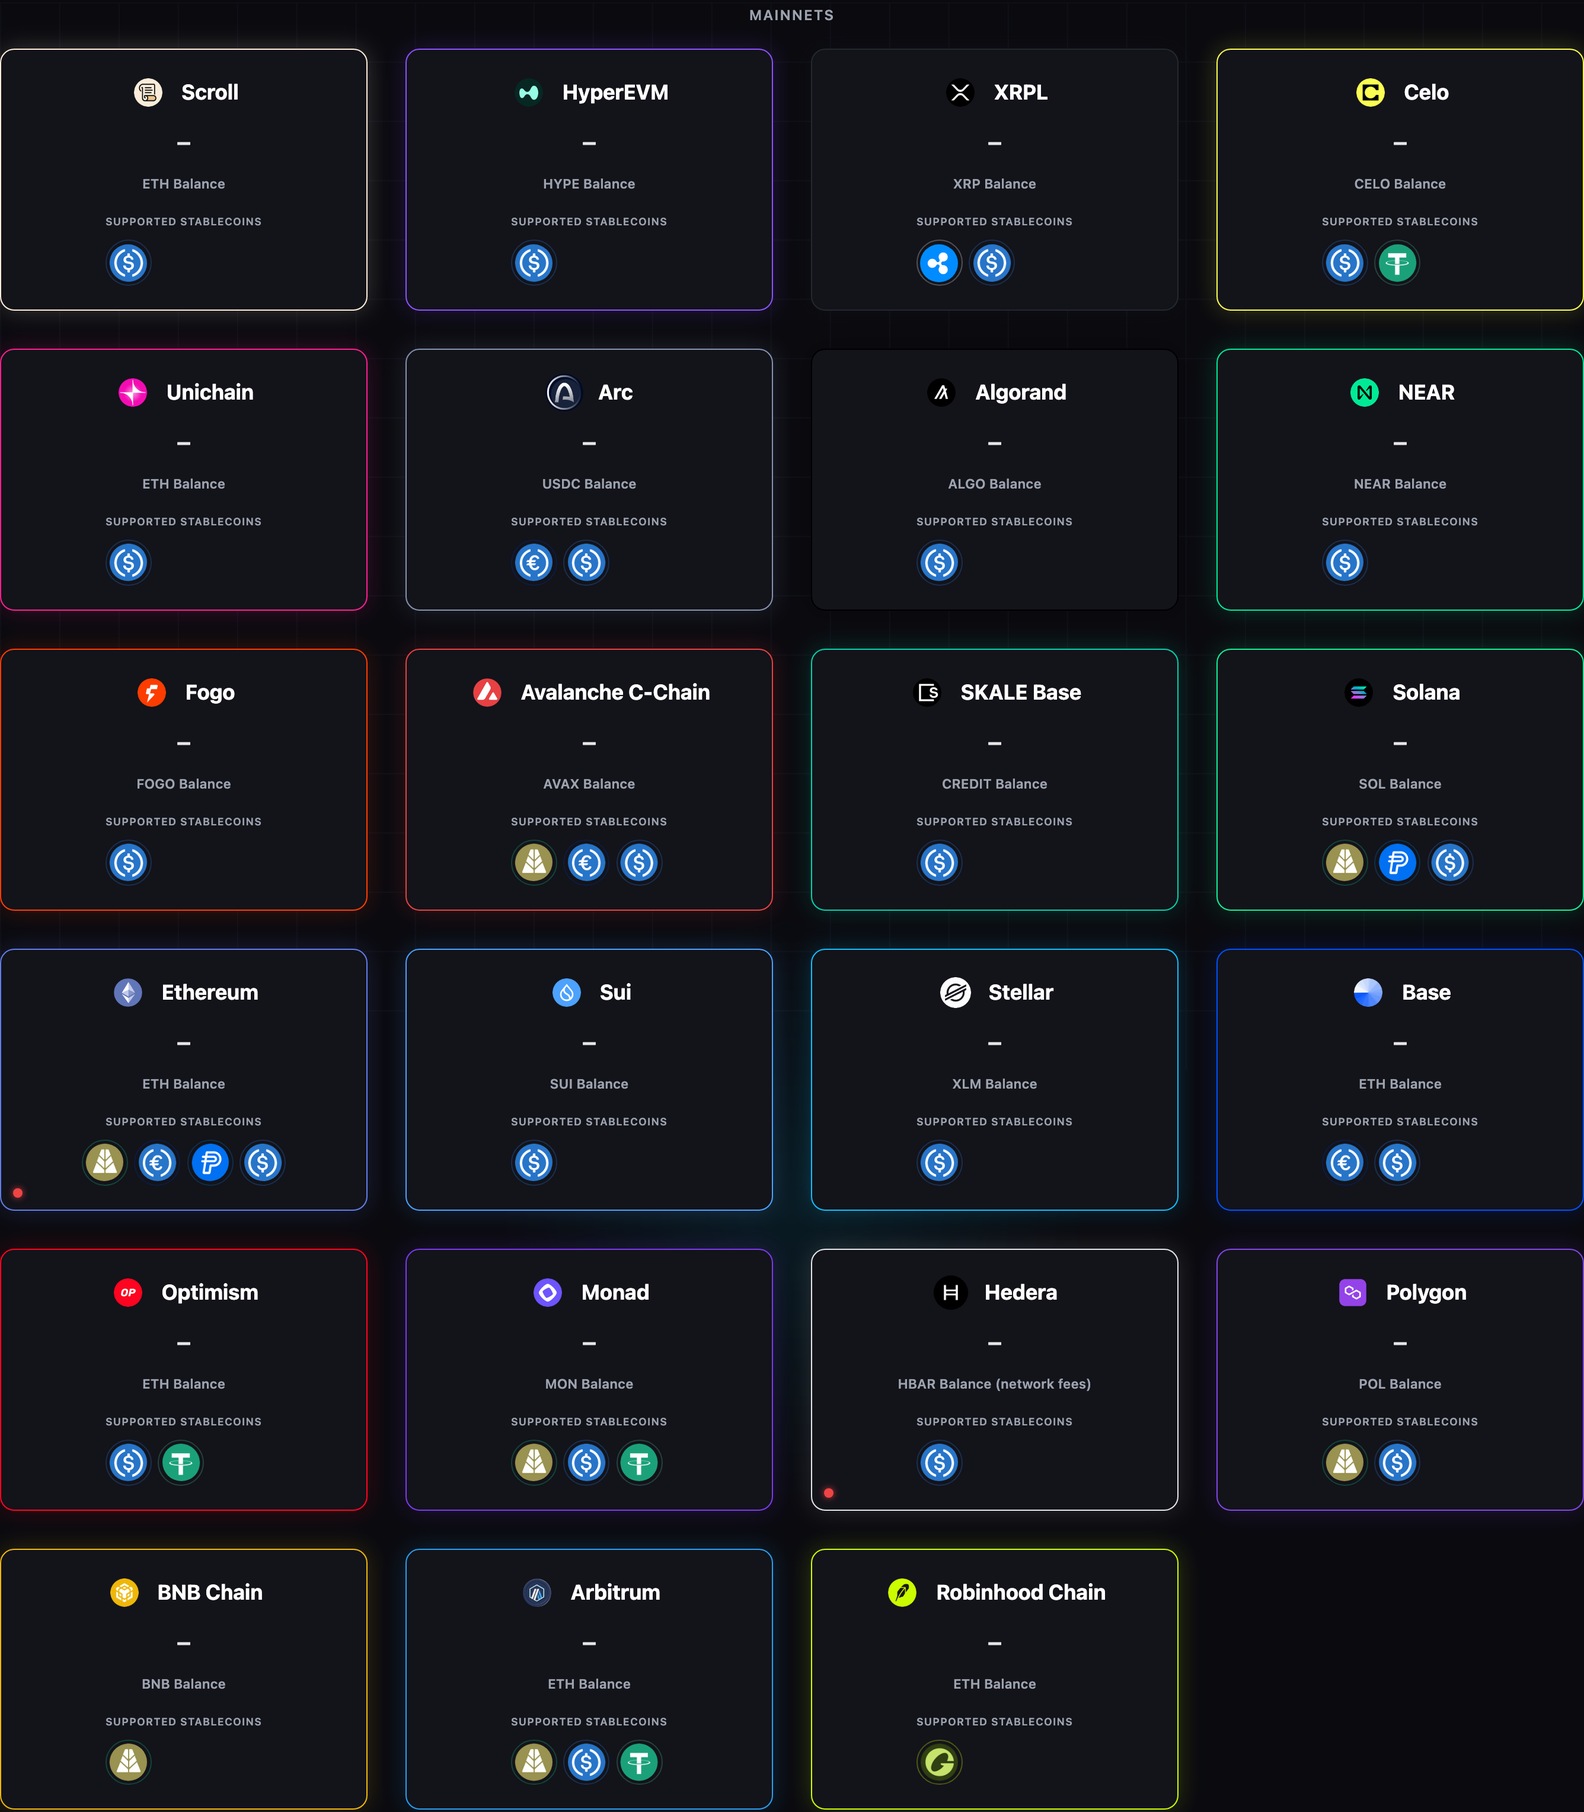
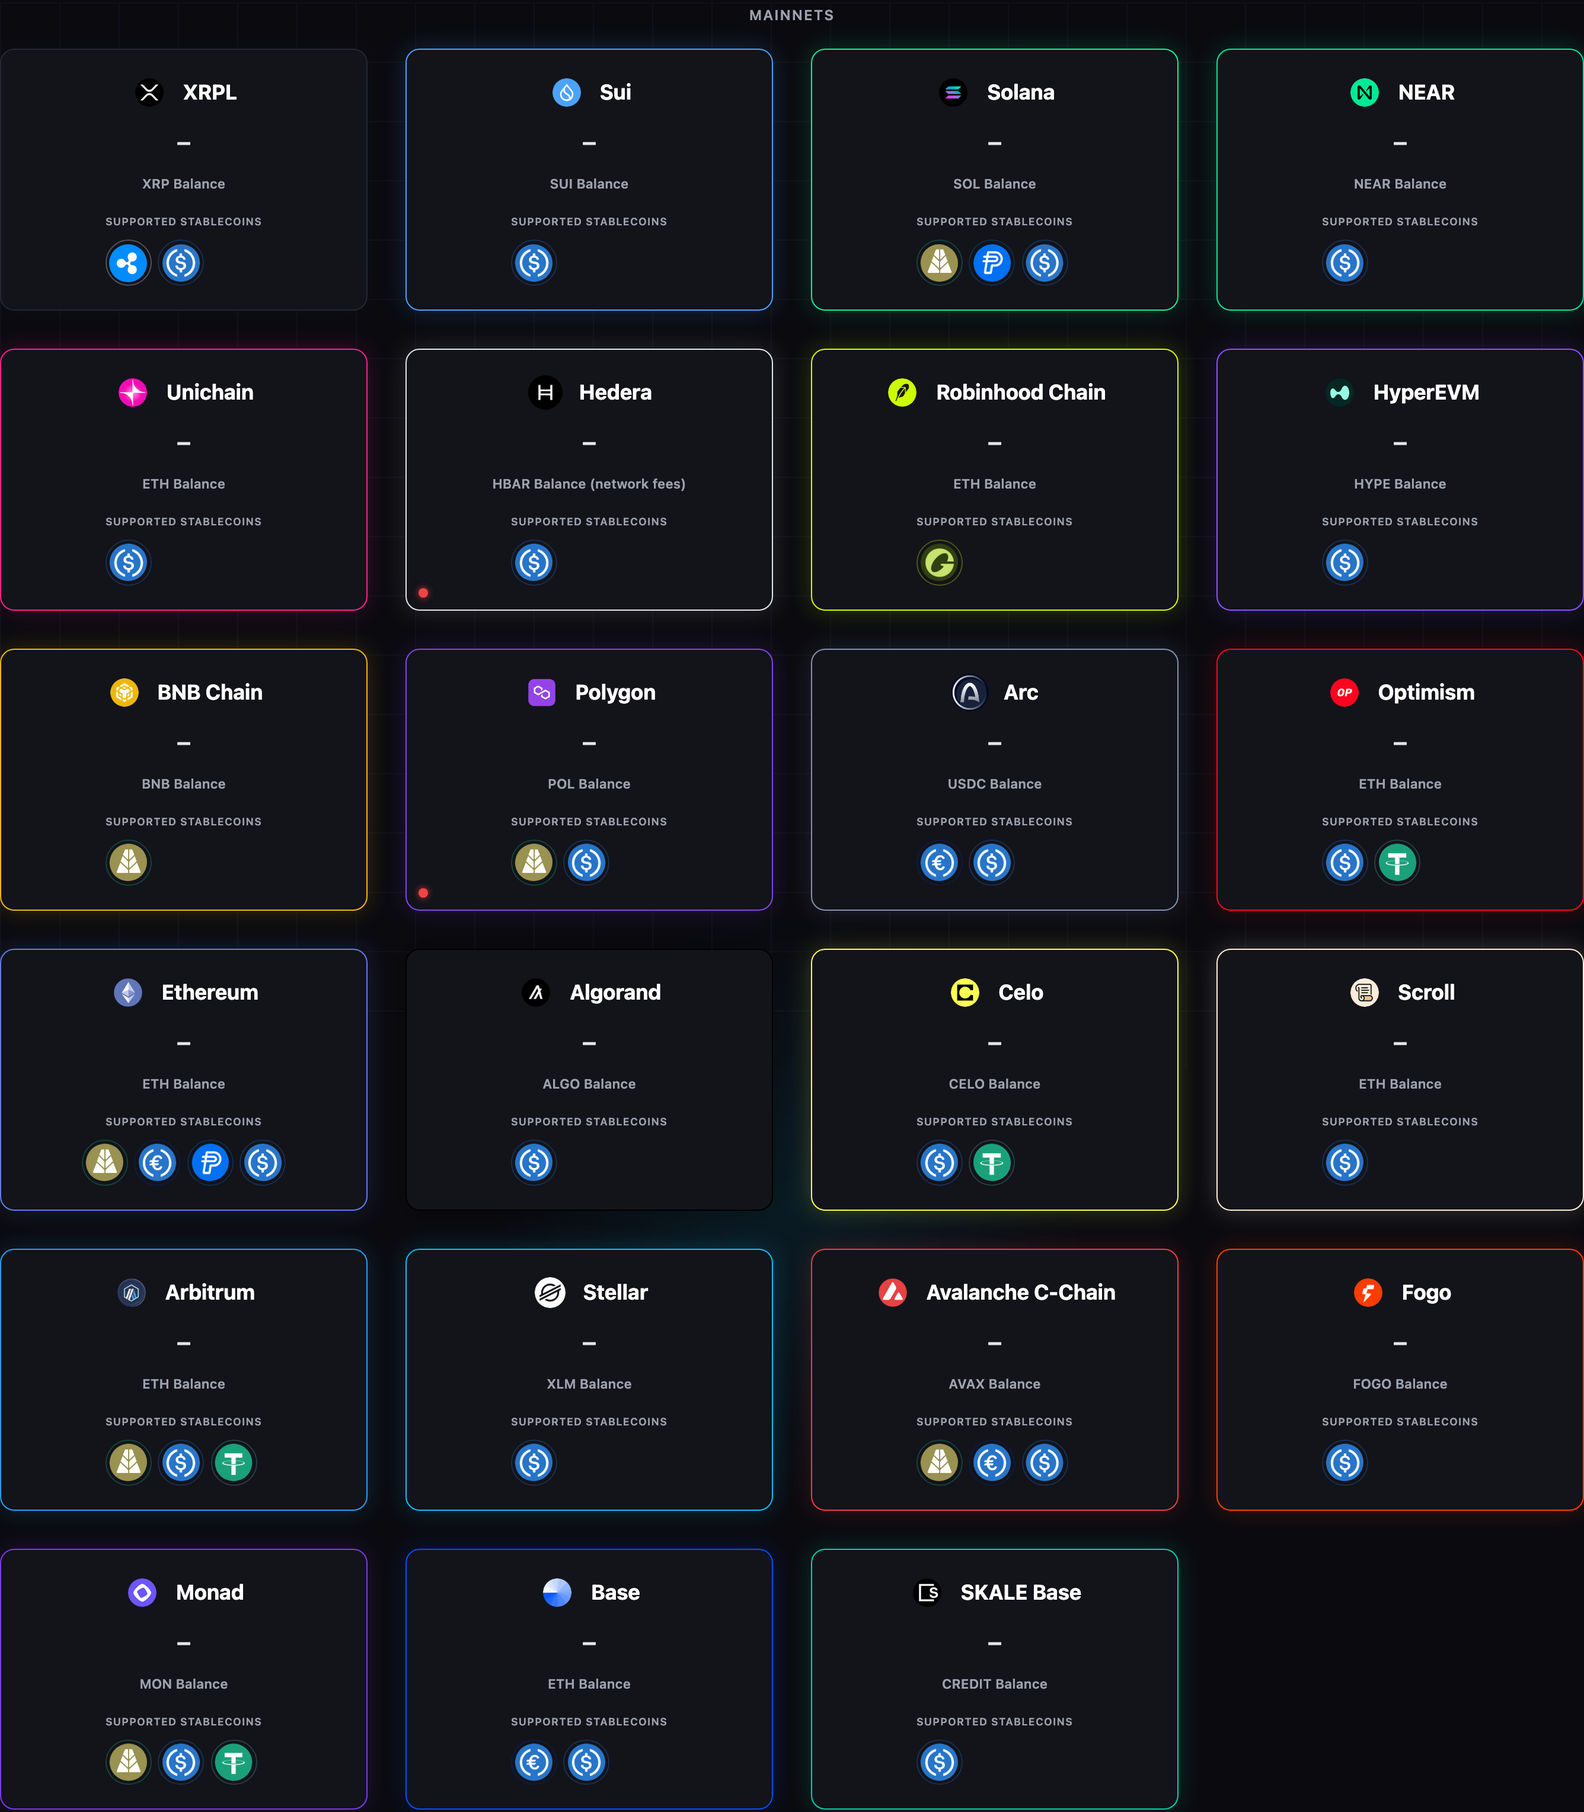
ronda 4 (#101): el punto de la portada se prende con menos de 10 settles, no por signer_gas_low
Pedido del duenio: "con menos de 10 trades es que prenda la luz de
degraded". Cambia solo cardHealth (static/x402.js); /health/ready y las
alarmas siguen igual.

- Punto: red down (cualquier motivo), degraded por algo que no es gas, o
  un signer con settlesRemaining < 10 aunque el motivo global diga otra
  cosa. Sin punto: degraded/signer_gas_low con 10 o mas (Ethereum mainnet
  tenia 24 el 2026-09-23), ok, sin sondear o ilegible.
- readinessIndex guarda el menor settlesRemaining de cada red; umbral
  DOT_BELOW_SETTLES = 10. La etiqueta dice el motivo publicado.
- Tests de cardHealth y del paint sobre el DOM con los casos del pedido;
  mutaciones en rojo: cualquier degraded, ignorar el signer < 10, umbral
  100, callar un down por gas.
- Capturas rehechas: Hedera y Polygon down con punto, Ethereum
  signer_gas_low con 24 sin punto. CHANGELOG 2.39.4 y handoff al dia.

diff --git a/static/x402.js b/static/x402.js
@@ -155,7 +155,8 @@ function matchesStablecoinFilter(row, token) {
 }
 
 // Chain health from GET /health/ready, keyed by both spellings of each chain:
-// native Hedera appears in /supported under its CAIP-2 id only. Null when the
+// native Hedera appears in /supported under its CAIP-2 id only. Each entry also
+// keeps the fewest settles any of its signers can still pay for. Null when the
 // body is not a readiness answer (a 429, `probe_failed`, garbage), because a
 // state nobody could read is shown as nothing, never as unhealthy.
 function readinessIndex(body) {
@@ -163,18 +164,32 @@ function readinessIndex(body) {
   const index = new Map();
   body.networks.forEach(n => {
     if (!n || typeof n.status !== 'string') return;
-    const entry = {status: n.status, reason: typeof n.reason === 'string' ? n.reason : ''};
+    const settles = (Array.isArray(n.signers) ? n.signers : [])
+      .map(s => s?.settlesRemaining).filter(Number.isFinite);
+    const entry = {
+      status: n.status,
+      reason: typeof n.reason === 'string' ? n.reason : '',
+      fewestSettles: settles.length ? Math.min(...settles) : null,
+    };
     [n.network, n.caip2].forEach(name => { if (typeof name === 'string') index.set(name, entry); });
   });
   return index;
 }
 
-// What a landing card shows for its chain: null while it is ok or unprobed,
-// otherwise the label of its dot ("degraded: signer_gas_low"). `words` names
-// the state in the page's language; the reason is a token and stays as is.
+// The owner's line for the landing's dot: fewer than 10 settles left. Above it a
+// thin signer (`degraded` / `signer_gas_low`) is an operator matter, not a
+// visitor's: /health/ready and the balance alarms still report it.
+const DOT_BELOW_SETTLES = 10;
+
+// What a landing card shows for its chain: null while it is ok, unprobed, or
+// only low on gas with 10 or more settles left; otherwise the label of its dot
+// ("down: signer_gas_critical"), with the reason /health/ready published.
+// `words` names the state in the page's language; the reason stays a token.
 function cardHealth(index, key, words) {
   const entry = index?.get(landingNetworkName(key));
   if (!entry || (entry.status !== 'degraded' && entry.status !== 'down')) return null;
+  const nearlyDry = entry.fewestSettles !== null && entry.fewestSettles < DOT_BELOW_SETTLES;
+  if (entry.status === 'degraded' && entry.reason === 'signer_gas_low' && !nearlyDry) return null;
   const state = words?.[entry.status] || entry.status;
   return {status: entry.status, label: entry.reason ? `${state}: ${entry.reason}` : state};
 }

diff --git a/static/index.html b/static/index.html
@@ -253,9 +253,10 @@
             box-shadow: 0 8px 24px rgba(0, 0, 0, 0.4);
         }
 
-        /* A chain's health, read from GET /health/ready: nothing while it is ok,
-           a small blinking red dot in the card's lower-left corner while it is
-           degraded or down. Absolutely positioned, so no card moves or resizes. */
+        /* A chain's health, read from GET /health/ready: a small blinking red dot
+           in the card's lower-left corner while it is down, degraded for a reason
+           other than gas, or under 10 settles (`cardHealth` in x402.js). Nothing
+           otherwise. Absolutely positioned, so no card moves or resizes. */
         .network-status {
             position: absolute;
             left: 10px;
@@ -3504,10 +3505,11 @@
         })();
 
         // Chain health on each network card, from GET /health/ready, which
-        // lists every configured chain with its state and reason. A dot only
-        // for `degraded` or `down`; nothing for `ok`, for a chain the route does
-        // not probe, or when the answer cannot be read -- never a red dot for
-        // not knowing. A 503 still carries the per-chain list, so its body is
+        // lists every configured chain with its state and reason. A dot for
+        // `down`, for `degraded` by anything but gas, and for a signer under 10
+        // settles (`cardHealth`); nothing for `ok`, for `signer_gas_low` above
+        // that line, for a chain the route does not probe, or when the answer
+        // cannot be read -- never a red dot for not knowing. A 503 still carries the per-chain list, so its body is
         // read like a 200's. The route caches for 60 s, so polling at that
         // rate costs the chains nothing.
         (function loadNetworkStatus() {

diff --git a/docs/handoffs/2026-09-23-hedera-reprobe.md b/docs/handoffs/2026-09-23-hedera-reprobe.md
@@ -42,7 +42,7 @@ consenso rechaza la transacción por firma; el pago falla, no se desvía.
 | Arc al arrancar (`src/chain/evm.rs`, `src/chain_identity.rs`) | `admit` esperado; mismatch = fuera de `/supported` | `admit` eliminado. Arc pasa por el mismo `chain_identity::spawn` que el resto de las EVM. Mismatch: alerta `evm_rpc_chain_id_mismatch`. Sin respuesta: `arc_rpc_chain_id_unverified` y re-probe 30/60 s hasta tener veredicto |
 | Resto de las EVM | sin respuesta al chain id: un warn y nada más | re-probe 30/60 s hasta tener veredicto (`rpc_chain_id_verified` o el token de mismatch) |
 | `/health/ready` (`src/readiness.rs`) | una red fuera de `/supported` tampoco aparecía; Hedera: cualquier fallo = `rpc_unreachable` | lista toda red configurada. Campo nuevo `caip2`. EVM: pregunta `eth_chainId` en cada refresh y un chain id ajeno da `down` / `rpc_chain_id_mismatch` / `rpc: wrong_chain`. Hedera: `rpc_timeout`, `rpc_unreachable`, `store_unavailable`, `signer_key_mismatch`, `signer_gas_*` |
-| Portada (`static/index.html`, `static/x402.js`) | — | punto rojo pequeño que parpadea abajo a la izquierda si la red está `degraded` o `down`; nada si `ok`, si no se sondea o si no se pudo leer |
+| Portada (`static/index.html`, `static/x402.js`) | — | punto rojo pequeño que parpadea abajo a la izquierda si la red está `down`, `degraded` por algo que no es gas, o con un signer por debajo de 10 settles (ronda 4); nada si `ok`, si solo es `signer_gas_low` con 10 o más, si no se sondea o si no se pudo leer |
 
 Providers revisados con el mismo criterio (punto 3): **Hedera** (tocado), **Arc** (tocado),
 **chequeo de chain id de todas las EVM** (tocado: re-probe de los que no contestan, y el
@@ -56,20 +56,22 @@ arranque. El test `a_chain_whose_probe_timed_out_turns_green_without_a_restart` 
 
 ## La portada
 
-![Mainnets: Ethereum degraded y Hedera down, simulados](assets/estado-redes-mainnets-1440-oscuro.png)
+![Mainnets: Hedera y Polygon down (simulados) con punto; Ethereum signer_gas_low con 24 settles, sin punto](assets/estado-redes-mainnets-1440-oscuro.png)
 
-![Testnets: Hedera testnet degraded, simulado](assets/estado-redes-testnets-1440-oscuro.png)
+![Testnets: Base Sepolia down (simulado) con punto; Hedera testnet signer_gas_low con 21, sin punto](assets/estado-redes-testnets-1440-oscuro.png)
 
 ![Tarjeta de Hedera, de cerca](assets/estado-redes-tarjeta-hedera.png)
 
 Captura a 1440 px, DPR 2, con `prefers-reduced-motion: reduce` para que el punto salga fijo;
 sin esa preferencia parpadea (opacidad 1 → 0,25, 1,2 s). Servida en local: la portada de esta
-rama, un `/supported` de producción leído a las 13:48Z y un `/health/ready` **simulado** con
-`ethereum` `degraded: signer_gas_low`, `hedera` `down: rpc_timeout` (la forma del incidente) y
-`hedera-testnet` `degraded: signer_gas_low`. Los saldos son `—` a propósito: el mock no
+rama, un `/supported` de producción leído a las 13:48Z y un `/health/ready` **simulado**
+(capturas rehechas en la ronda 4): `ethereum` `degraded: signer_gas_low` con 24 settles (el valor
+real de ese día; **sin punto**), `hedera` `down: rpc_timeout` (la forma del incidente),
+`polygon` `down: signer_gas_critical` con 9, `hedera-testnet` `degraded: signer_gas_low` con
+21 (sin punto) y `base-sepolia` `down: rpc_timeout`. Los saldos son `—` a propósito: el mock no
 inventa cifras, y el navegador tenía bloqueado todo lo que no fuera 127.0.0.1. Medido en el
 DOM: el punto queda a 11 px del borde izquierdo e inferior de la tarjeta (1 px de borde + 10),
-mide 8 px, y `aria-label`/`title` dicen `degraded: signer_gas_low` / `down: rpc_timeout`.
+mide 8 px, y `aria-label`/`title` dicen `down: rpc_timeout` / `down: signer_gas_critical`.
 
 Qué no cambia: tamaños, tipografía, colores y orden de la grilla (el punto es
 `position: absolute` dentro de una tarjeta que ya era `position: relative`). Lo único nuevo en
@@ -115,10 +117,35 @@ conteste, y no quise tráfico a la testnet real desde un test.
 | P2-1 | `CHANGELOG.md`: la edición reemplazó el encabezado `## [2.39.3]`, así que las entradas de recibos (#100) quedaban publicadas como 2.39.4 | Se repone `## [2.39.3]` debajo de las entradas de 2.39.4 | el bloque 2.39.3 es idéntico byte a byte al de `3056181e` (`diff` de las dos secciones, vacío) |
 | P2-2 | "Ninguna tarjeta desaparece" no tenía test: cambiar `paint` por `card.remove()` dejaba 11/11 en verde | Test que ejecuta el cargador real de la portada (`loadNetworkStatus`, sacado de `index.html`) sobre un DOM falso con las 44 tarjetas reales. Pasa por una red degraded, una down, un 429 ilegible y un fetch que falla. En cada paso cuenta las tarjetas, verifica el orden y que ningún `style` se tocó, y que el punto aparezca solo en degraded/down | mutaciones en rojo: `card.remove()`, `card.style.display = 'none'`, fetch fallido que no limpia, idioma que no re-etiqueta |
 | P3 | El bucle de re-probe no tenía test: apagarlo dejaba 52/52 en verde | El bucle pasa a `crate::chain::reprobe(probe, delay)`, con el retardo como parámetro. Lo usan Hedera (`watch_startup_health`) y el re-check EVM (`recheck`, que ahora devuelve su veredicto). Dos tests: el bucle pregunta hasta tener veredicto y espera antes de cada intento (retardos 0,1,2,3), y un RPC que no contesta dos veces es juzgado al tercero (`Matches` o `Mismatch`) | mutaciones en rojo: el re-check se rinde con el primer silencio, el bucle no espera, el bucle da una sola vuelta. Los dos tests tienen tope de tiempo, así que un bucle colgado falla en segundos y no a los 35 min del job |
-| P3 | Etiqueta del punto solo en inglés | La portada es bilingüe: `netstatus.degraded` / `netstatus.down` en los dos diccionarios (`degradada`, `caída`); el motivo sigue siendo el token. Un cambio de idioma re-etiqueta los puntos sin volver a consultar la ruta | el test de P2-2 cambia a `es` y lee `degradada: signer_gas_low` / `caída: rpc_timeout` |
+| P3 | Etiqueta del punto solo en inglés | La portada es bilingüe: `netstatus.degraded` / `netstatus.down` en los dos diccionarios (`degradada`, `caída`); el motivo sigue siendo el token. Un cambio de idioma re-etiqueta los puntos sin volver a consultar la ruta | el test de P2-2 cambia a `es` y lee `degradada: startup_probe_failed` / `caída: rpc_timeout` (casos de la ronda 4) |
 
 Lo que queda sin test: que `from_env` de Hedera realmente lance `watch_startup_health`. Para
 probarlo haría falta que el health pasara, y eso exige un nodo de consenso gRPC.
+
+## Ronda 4 (pedido del dueño: el punto solo con menos de 10 settles)
+
+*"quiero que con menos de 10 trades es que prenda la luz de degraded ... si quedan menos de 10
+trades ahi si mostrar el degraded"*. Cambia solo el indicador de la portada (`cardHealth` en
+`static/x402.js`); `/health/ready` y las alarmas no cambian.
+
+| Estado publicado para la red | Punto |
+|---|---|
+| `down`, por cualquier motivo (incluye `signer_gas_critical`, que es < `minSettles` = 10) | sí |
+| `degraded` por un motivo que no es gas | sí |
+| `degraded` / `signer_gas_low` con 10 o más settles (Ethereum: 24 el 2026-09-23) | **no** |
+| cualquier estado con un signer que publica `settlesRemaining` < 10 | sí, aunque el motivo global diga otra cosa |
+| `ok`, sin sondear, o `/health/ready` ilegible | no |
+
+`readinessIndex` guarda el menor `settlesRemaining` de los signers de cada red; el umbral es la
+constante `DOT_BELOW_SETTLES = 10`, que es la cifra del dueño, no se lee de `thresholds`. La
+etiqueta dice el estado y el motivo que publicó la ruta (`down: signer_gas_critical`).
+
+Tests: el de `cardHealth` (Ethereum `signer_gas_low` con 24 → sin punto; `down` /
+`signer_gas_critical` con 9 → punto; `down` con 15, como con `HEALTH_READY_MIN_SETTLES=20` →
+punto; `degraded` por otro motivo → punto; un signer con 7 bajo un motivo `signer_gas_low` →
+punto) y el de `paint` sobre el DOM (ninguna tarjeta desaparece, puntos solo en Polygon,
+Avalanche y Hedera, ilegible → ninguno). Mutaciones en rojo: volver a "cualquier degraded",
+ignorar el signer con menos de 10, umbral 100, y callar también un `down` por gas.
 
 ## Para c0der
 

diff --git a/CHANGELOG.md b/CHANGELOG.md
@@ -5,7 +5,7 @@
 - A configured network stays in `/supported`, and so on the landing, whatever its health. Through 2.39.3 a native Hedera ledger whose health check failed at startup was left out until the next deploy, with no retry: on 2026-09-23 both 2.39.3 tasks started while Hedera's consensus probe timed out (13:30:55Z and 13:31:28Z), and Hedera mainnet was absent from `/supported` (155 entries instead of 156) and from the landing's mainnet grid until a forced redeploy at 13:46Z. An Arc RPC answering for another chain likewise left Arc out. Both are now served, with the same alert as before.
 - The startup checks run in the background and never decide whether a network is served. A Hedera health check that fails at startup logs `hedera_health_failed_at_startup` and runs again every 30 s, then every 60 s, until it passes, and then logs `hedera_health_recovered`. An EVM RPC that does not answer `eth_chainId` at startup (Arc included: `arc_rpc_chain_id_unverified`) is asked again on the same schedule until it gives a verdict; a mismatch logs `evm_rpc_chain_id_mismatch` for every EVM network. The only things that keep a network out of `/supported` are not configuring it and not compiling it in.
 - `GET /health/ready` lists every configured network with its state and reason, including one that is failing: until now a Hedera ledger that failed at startup was absent from it too. Each entry gains `caip2` next to `network`, so native Hedera, which `/supported` names only as `hedera:mainnet` / `hedera:testnet`, can be matched. EVM RPCs are asked for their chain id on every refresh and a wrong one is `down` with `rpc_chain_id_mismatch` (`rpc: wrong_chain`) instead of being graded on balances read on another chain. Native Hedera reports its own reasons: `rpc_timeout`, `rpc_unreachable`, `store_unavailable`, `signer_key_mismatch`, and a sponsor balance below one max fee is `signer_gas_critical` rather than `rpc_unreachable`.
-- Landing: each network card in the Mainnets and Testnets grids shows a small blinking red dot in its lower-left corner while `/health/ready` reports that network `degraded` or `down`, labelled with the state, in the page's language, and the reason (for example `degraded: signer_gas_low`, in Spanish `degradada: signer_gas_low`); nothing while it is `ok`, for networks the route does not probe, or when the route cannot be read. It refreshes every 60 s, stops blinking under `prefers-reduced-motion`, and changes no card's size, order, type or colours. `/x402.js`, which carries the new helpers, is loaded as `?v=20260923`.
+- Landing: each network card in the Mainnets and Testnets grids shows a small blinking red dot in its lower-left corner while `/health/ready` reports that network `down`, `degraded` for a reason other than gas, or with a signer under 10 settles; it is labelled with the state, in the page's language, and the reason (for example `down: signer_gas_critical`, in Spanish `caída: signer_gas_critical`). Nothing is shown while the network is `ok`, while it is only `degraded` / `signer_gas_low` with 10 or more settles left (Ethereum mainnet read 24 on 2026-09-23: that is for `/health/ready` and the balance alarms, which do not change), for networks the route does not probe, or when the route cannot be read. It refreshes every 60 s, stops blinking under `prefers-reduced-motion`, and changes no card's size, order, type or colours. `/x402.js`, which carries the new helpers, is loaded as `?v=20260923`.
 - OpenAPI for `/health/ready` and the `network-startup-probe` alarm's description say the same.
 
 ## [2.39.3] - 2026-09-23
